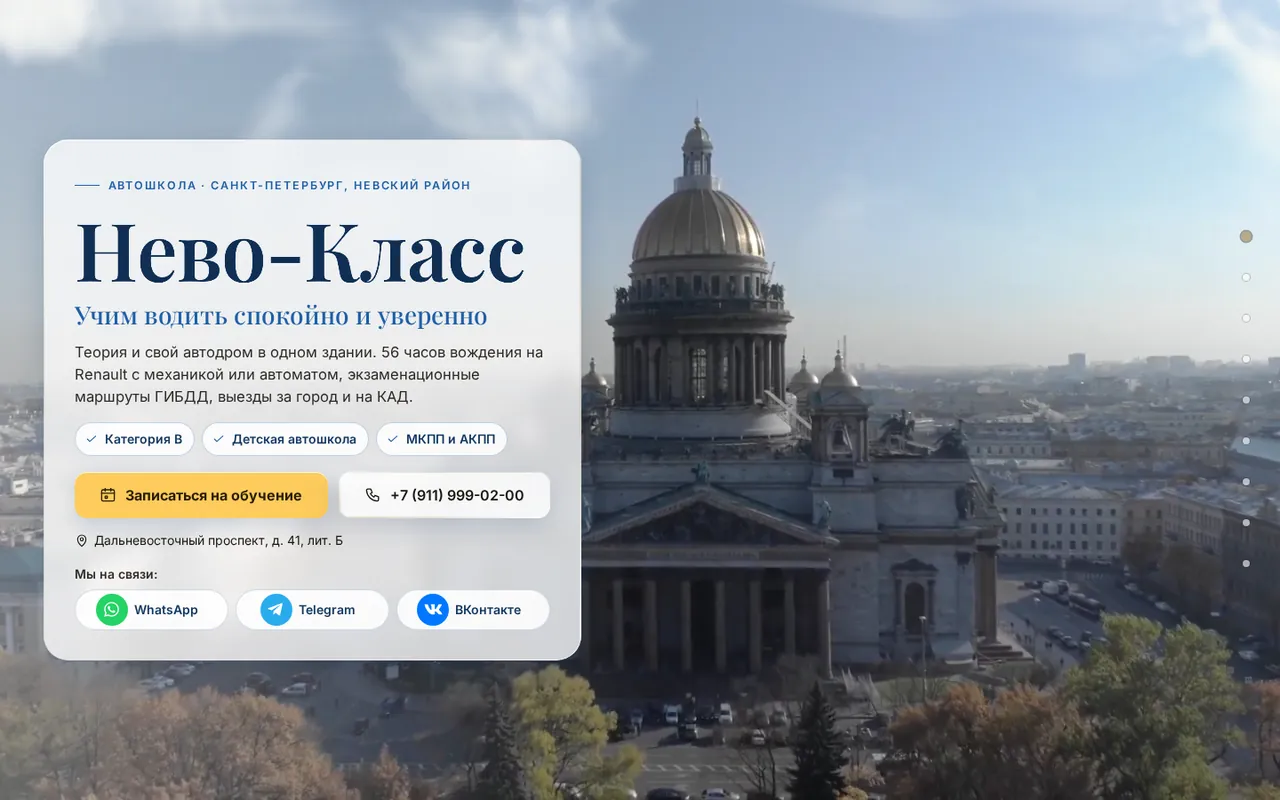
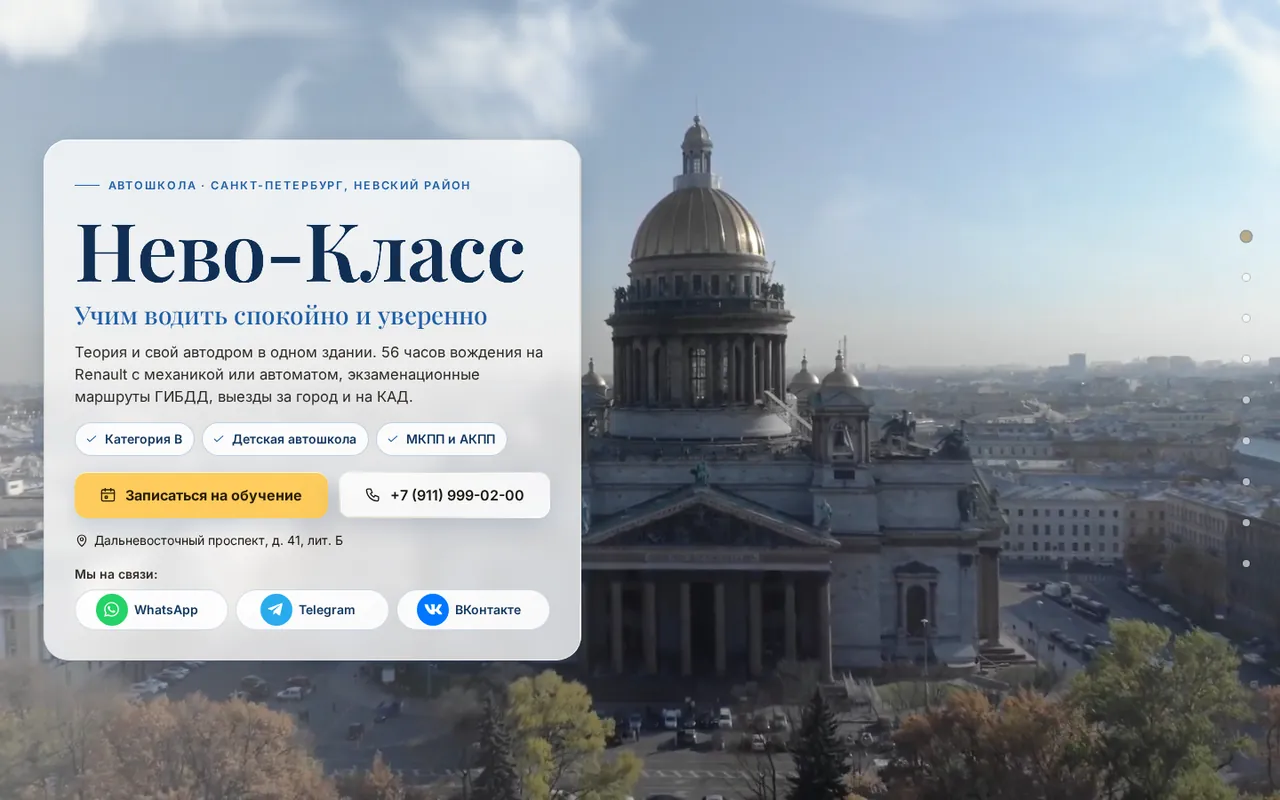
Яркий фон в фирменном синем; версия для слабовидящих без живых фонов и анимаций; снимки витрины обновлены

diff --git a/vitrina/index.html b/vitrina/index.html
@@ -78,9 +78,9 @@ h1{text-wrap:balance;font-size:clamp(30px,3.4vw,48px);line-height:1.08;letter-sp
     </div>
   </div>
   <div class="stage" id="stage" aria-label="Новый сайт на компьютере, ноутбуке и телефоне">
-    <div class="dv mon"><div class="scr"><img src="img/monitor.webp?v=4" alt="" width="1600" height="900"></div><div class="neck"></div><div class="foot"></div></div>
-    <div class="dv lap"><div class="scr"><img src="img/laptop.webp?v=4" alt="" width="1280" height="800"></div><div class="base"></div></div>
-    <div class="dv ph" id="ph"><div class="ss-phone z-phone" data-frame="pro" style="width: 340px; height: 714.953px; padding: 2.38318px; border-radius: 61.1682px; --ps: 0.794392523364486px;"><svg class="ss-phone__bands" width="100%" height="100%" aria-hidden="true"><defs><linearGradient id="ph-band" x1="0.2" y1="0" x2="0.8" y2="1"><stop offset="0" style="stop-color: var(--ss-phone-band-1);"></stop><stop offset="0.22" style="stop-color: var(--ss-phone-band-2);"></stop><stop offset="0.48" style="stop-color: var(--ss-phone-band-3);"></stop><stop offset="0.74" style="stop-color: var(--ss-phone-band-4);"></stop><stop offset="1" style="stop-color: var(--ss-phone-band-5);"></stop></linearGradient><linearGradient id="ph-clay" x1="0" y1="0" x2="0" y2="1"><stop offset="0" style="stop-color: var(--ss-phone-clay-top);"></stop><stop offset="1" style="stop-color: var(--ss-phone-clay-bottom);"></stop></linearGradient></defs><g transform="translate(10.327102803738317 10.327102803738317)" stroke-linejoin="round"><path d="M262.94 0.00L267.09 0.06L270.49 0.24L273.65 0.53L276.65 0.94L279.51 1.47L282.27 2.11L284.93 2.87L287.50 3.74L289.97 4.72L292.36 5.81L294.65 7.02L296.85 8.33L298.96 9.75L300.98 11.27L302.90 12.90L304.72 14.62L306.45 16.45L308.08 18.37L309.60 20.38L311.02 22.49L312.33 24.70L313.53 26.99L314.63 29.37L315.61 31.85L316.48 34.41L317.24 37.07L317.88 39.83L318.41 42.70L318.82 45.69L319.11 48.85L319.29 52.25L319.35 56.40L319.35 637.90L319.29 642.04L319.11 645.45L318.82 648.60L318.41 651.60L317.88 654.47L317.24 657.23L316.48 659.89L315.61 662.45L314.63 664.92L313.53 667.31L312.33 669.60L311.02 671.80L309.60 673.91L308.08 675.93L306.45 677.85L304.72 679.68L302.90 681.40L300.98 683.03L298.96 684.55L296.85 685.97L294.65 687.28L292.36 688.49L289.97 689.58L287.50 690.56L284.93 691.43L282.27 692.19L279.51 692.83L276.65 693.36L273.65 693.77L270.49 694.06L267.09 694.24L262.94 694.30L56.40 694.30L52.25 694.24L48.85 694.06L45.69 693.77L42.70 693.36L39.83 692.83L37.07 692.19L34.41 691.43L31.85 690.56L29.37 689.58L26.99 688.49L24.70 687.28L22.49 685.97L20.38 684.55L18.37 683.03L16.45 681.40L14.62 679.68L12.90 677.85L11.27 675.93L9.75 673.91L8.33 671.80L7.02 669.60L5.81 667.31L4.72 664.92L3.74 662.45L2.87 659.89L2.11 657.23L1.47 654.47L0.94 651.60L0.53 648.60L0.24 645.45L0.06 642.04L0.00 637.90L0.00 56.40L0.06 52.25L0.24 48.85L0.53 45.69L0.94 42.70L1.47 39.83L2.11 37.07L2.87 34.41L3.74 31.85L4.72 29.37L5.81 26.99L7.02 24.70L8.33 22.49L9.75 20.38L11.27 18.37L12.90 16.45L14.62 14.62L16.45 12.90L18.37 11.27L20.38 9.75L22.49 8.33L24.70 7.02L26.99 5.81L29.37 4.72L31.85 3.74L34.41 2.87L37.07 2.11L39.83 1.47L42.70 0.94L45.69 0.53L48.85 0.24L52.25 0.06L56.40 0.00Z" fill="none" stroke-width="20.654205607476634" stroke="url(#ph-band)"></path><path d="M262.94 0.00L267.09 0.06L270.49 0.24L273.65 0.53L276.65 0.94L279.51 1.47L282.27 2.11L284.93 2.87L287.50 3.74L289.97 4.72L292.36 5.81L294.65 7.02L296.85 8.33L298.96 9.75L300.98 11.27L302.90 12.90L304.72 14.62L306.45 16.45L308.08 18.37L309.60 20.38L311.02 22.49L312.33 24.70L313.53 26.99L314.63 29.37L315.61 31.85L316.48 34.41L317.24 37.07L317.88 39.83L318.41 42.70L318.82 45.69L319.11 48.85L319.29 52.25L319.35 56.40L319.35 637.90L319.29 642.04L319.11 645.45L318.82 648.60L318.41 651.60L317.88 654.47L317.24 657.23L316.48 659.89L315.61 662.45L314.63 664.92L313.53 667.31L312.33 669.60L311.02 671.80L309.60 673.91L308.08 675.93L306.45 677.85L304.72 679.68L302.90 681.40L300.98 683.03L298.96 684.55L296.85 685.97L294.65 687.28L292.36 688.49L289.97 689.58L287.50 690.56L284.93 691.43L282.27 692.19L279.51 692.83L276.65 693.36L273.65 693.77L270.49 694.06L267.09 694.24L262.94 694.30L56.40 694.30L52.25 694.24L48.85 694.06L45.69 693.77L42.70 693.36L39.83 692.83L37.07 692.19L34.41 691.43L31.85 690.56L29.37 689.58L26.99 688.49L24.70 687.28L22.49 685.97L20.38 684.55L18.37 683.03L16.45 681.40L14.62 679.68L12.90 677.85L11.27 675.93L9.75 673.91L8.33 671.80L7.02 669.60L5.81 667.31L4.72 664.92L3.74 662.45L2.87 659.89L2.11 657.23L1.47 654.47L0.94 651.60L0.53 648.60L0.24 645.45L0.06 642.04L0.00 637.90L0.00 56.40L0.06 52.25L0.24 48.85L0.53 45.69L0.94 42.70L1.47 39.83L2.11 37.07L2.87 34.41L3.74 31.85L4.72 29.37L5.81 26.99L7.02 24.70L8.33 22.49L9.75 20.38L11.27 18.37L12.90 16.45L14.62 14.62L16.45 12.90L18.37 11.27L20.38 9.75L22.49 8.33L24.70 7.02L26.99 5.81L29.37 4.72L31.85 3.74L34.41 2.87L37.07 2.11L39.83 1.47L42.70 0.94L45.69 0.53L48.85 0.24L52.25 0.06L56.40 0.00Z" fill="none" stroke-width="15.88785046728972" style="stroke: var(--ss-phone-rim);"></path><path d="M262.94 0.00L267.09 0.06L270.49 0.24L273.65 0.53L276.65 0.94L279.51 1.47L282.27 2.11L284.93 2.87L287.50 3.74L289.97 4.72L292.36 5.81L294.65 7.02L296.85 8.33L298.96 9.75L300.98 11.27L302.90 12.90L304.72 14.62L306.45 16.45L308.08 18.37L309.60 20.38L311.02 22.49L312.33 24.70L313.53 26.99L314.63 29.37L315.61 31.85L316.48 34.41L317.24 37.07L317.88 39.83L318.41 42.70L318.82 45.69L319.11 48.85L319.29 52.25L319.35 56.40L319.35 637.90L319.29 642.04L319.11 645.45L318.82 648.60L318.41 651.60L317.88 654.47L317.24 657.23L316.48 659.89L315.61 662.45L314.63 664.92L313.53 667.31L312.33 669.60L311.02 671.80L309.60 673.91L308.08 675.93L306.45 677.85L304.72 679.68L302.90 681.40L300.98 683.03L298.96 684.55L296.85 685.97L294.65 687.28L292.36 688.49L289.97 689.58L287.50 690.56L284.93 691.43L282.27 692.19L279.51 692.83L276.65 693.36L273.65 693.77L270.49 694.06L267.09 694.24L262.94 694.30L56.40 694.30L52.25 694.24L48.85 694.06L45.69 693.77L42.70 693.36L39.83 692.83L37.07 692.19L34.41 691.43L31.85 690.56L29.37 689.58L26.99 688.49L24.70 687.28L22.49 685.97L20.38 684.55L18.37 683.03L16.45 681.40L14.62 679.68L12.90 677.85L11.27 675.93L9.75 673.91L8.33 671.80L7.02 669.60L5.81 667.31L4.72 664.92L3.74 662.45L2.87 659.89L2.11 657.23L1.47 654.47L0.94 651.60L0.53 648.60L0.24 645.45L0.06 642.04L0.00 637.90L0.00 56.40L0.06 52.25L0.24 48.85L0.53 45.69L0.94 42.70L1.47 39.83L2.11 37.07L2.87 34.41L3.74 31.85L4.72 29.37L5.81 26.99L7.02 24.70L8.33 22.49L9.75 20.38L11.27 18.37L12.90 16.45L14.62 14.62L16.45 12.90L18.37 11.27L20.38 9.75L22.49 8.33L24.70 7.02L26.99 5.81L29.37 4.72L31.85 3.74L34.41 2.87L37.07 2.11L39.83 1.47L42.70 0.94L45.69 0.53L48.85 0.24L52.25 0.06L56.40 0.00Z" fill="none" stroke-width="14.69626168224299" style="stroke: var(--ss-phone-glass);"></path></g></svg><div class="ss-phone__glass" style="padding: 7.94393px; border-radius: 58.785px;"><div class="ss-phone__window" style="width: 319.346px; height: 694.299px; clip-path: path(&quot;M 262.94 0 L 267.09 0.06 L 270.49 0.24 L 273.65 0.53 L 276.65 0.94 L 279.51 1.47 L 282.27 2.11 L 284.93 2.87 L 287.5 3.74 L 289.97 4.72 L 292.36 5.81 L 294.65 7.02 L 296.85 8.33 L 298.96 9.75 L 300.98 11.27 L 302.9 12.9 L 304.72 14.62 L 306.45 16.45 L 308.08 18.37 L 309.6 20.38 L 311.02 22.49 L 312.33 24.7 L 313.53 26.99 L 314.63 29.37 L 315.61 31.85 L 316.48 34.41 L 317.24 37.07 L 317.88 39.83 L 318.41 42.7 L 318.82 45.69 L 319.11 48.85 L 319.29 52.25 L 319.35 56.4 L 319.35 637.9 L 319.29 642.04 L 319.11 645.45 L 318.82 648.6 L 318.41 651.6 L 317.88 654.47 L 317.24 657.23 L 316.48 659.89 L 315.61 662.45 L 314.63 664.92 L 313.53 667.31 L 312.33 669.6 L 311.02 671.8 L 309.6 673.91 L 308.08 675.93 L 306.45 677.85 L 304.72 679.68 L 302.9 681.4 L 300.98 683.03 L 298.96 684.55 L 296.85 685.97 L 294.65 687.28 L 292.36 688.49 L 289.97 689.58 L 287.5 690.56 L 284.93 691.43 L 282.27 692.19 L 279.51 692.83 L 276.65 693.36 L 273.65 693.77 L 270.49 694.06 L 267.09 694.24 L 262.94 694.3 L 56.4 694.3 L 52.25 694.24 L 48.85 694.06 L 45.69 693.77 L 42.7 693.36 L 39.83 692.83 L 37.07 692.19 L 34.41 691.43 L 31.85 690.56 L 29.37 689.58 L 26.99 688.49 L 24.7 687.28 L 22.49 685.97 L 20.38 684.55 L 18.37 683.03 L 16.45 681.4 L 14.62 679.68 L 12.9 677.85 L 11.27 675.93 L 9.75 673.91 L 8.33 671.8 L 7.02 669.6 L 5.81 667.31 L 4.72 664.92 L 3.74 662.45 L 2.87 659.89 L 2.11 657.23 L 1.47 654.47 L 0.94 651.6 L 0.53 648.6 L 0.24 645.45 L 0.06 642.04 L 0 637.9 L 0 56.4 L 0.06 52.25 L 0.24 48.85 L 0.53 45.69 L 0.94 42.7 L 1.47 39.83 L 2.11 37.07 L 2.87 34.41 L 3.74 31.85 L 4.72 29.37 L 5.81 26.99 L 7.02 24.7 L 8.33 22.49 L 9.75 20.38 L 11.27 18.37 L 12.9 16.45 L 14.62 14.62 L 16.45 12.9 L 18.37 11.27 L 20.38 9.75 L 22.49 8.33 L 24.7 7.02 L 26.99 5.81 L 29.37 4.72 L 31.85 3.74 L 34.41 2.87 L 37.07 2.11 L 39.83 1.47 L 42.7 0.94 L 45.69 0.53 L 48.85 0.24 L 52.25 0.06 L 56.4 0 Z&quot;);"><div class="ss-phone__screen" style="width: 402px; height: 874px; transform: scale(0.794393); --ss-screen-r: 64px;"><div class="ss-phone__status"><span class="ss-phone__time">10:02</span><span class="ss-phone__glyphs"><svg viewBox="0 0 20.33 13.67" width="20.33" height="13.67" class="ss-phone__glyph ss-phone__signal"><rect x="0" y="7.34" width="3.333" height="6.33" rx="1.667" fill="currentColor"></rect><rect x="5.667" y="5" width="3.333" height="8.67" rx="1.667" fill="currentColor"></rect><rect x="11.334" y="2.67" width="3.333" height="11" rx="1.667" fill="currentColor"></rect><rect x="17.000999999999998" y="0" width="3.333" height="13.67" rx="1.667" fill="currentColor"></rect></svg><svg viewBox="0 0 19.33 14.33" width="19.33" height="14.33" class="ss-phone__glyph ss-phone__wifi"><path fill-rule="evenodd" fill="currentColor" d="M0.415933 5.54283C0.902185 6.04412 1.66017 5.95818 2.27513 5.41393C4.30595 3.58064 6.83731 2.63535 9.66901 2.63535C12.5007 2.63535 15.0464 3.60928 17.0629 5.41393C17.6636 5.97251 18.4215 6.0298 18.9221 5.54283C19.4226 5.02722 19.4942 4.2538 18.9793 3.70954C16.8341 1.51819 13.3302 0 9.66901 0C6.00783 0 2.48965 1.53251 0.358727 3.72387C-0.156127 4.2538 -0.0989213 5.02722 0.415933 5.55715L0.415933 5.54283ZM3.94841 9.13779C4.50617 9.68205 5.22124 9.62476 5.85051 9.10915C6.88022 8.29276 8.25316 7.73418 9.66901 7.7485C11.0706 7.7485 12.4435 8.29276 13.4875 9.12347C14.1168 9.63908 14.8605 9.66773 15.4039 9.12347C15.9331 8.57921 16.0189 7.7485 15.4611 7.23289C14.0739 5.98683 11.9859 5.11315 9.68332 5.11315C7.38077 5.11315 5.27845 5.98683 3.9055 7.23289C3.41925 7.69121 3.31914 8.47896 3.96271 9.13779L3.94841 9.13779ZM8.72511 13.8929C9.34008 14.4801 9.98365 14.4801 10.5986 13.8929L11.757 12.7757C12.372 12.1742 12.5007 11.4151 11.7999 10.8995C11.2136 10.4841 10.4699 10.212 9.66901 10.212C8.86813 10.212 8.11015 10.4841 7.53809 10.9138C6.83731 11.4151 6.98033 12.1885 7.59529 12.7757L8.73942 13.8929L8.72511 13.8929Z"></path></svg><svg viewBox="0 0 29.33 13.67" width="29.33" height="13.67" class="ss-phone__glyph ss-phone__battery"><path fill="currentColor" d="M0 6.4C0 4.15979 0 3.03969 0.435974 2.18404C0.819467 1.43139 1.43139 0.819467 2.18404 0.435974C3.03969 0 4.15979 0 6.4 0L19.933 0C22.1732 0 23.2933 0 24.149 0.435974C24.9016 0.819467 25.5135 1.43139 25.897 2.18404C26.333 3.03969 26.333 4.15979 26.333 6.4L26.333 7.26666C26.333 9.50687 26.333 10.627 25.897 11.4826C25.5135 12.2353 24.9016 12.8472 24.149 13.2307C23.2933 13.6667 22.1732 13.6667 19.933 13.6667L6.4 13.6667C4.15979 13.6667 3.03969 13.6667 2.18404 13.2307C1.43139 12.8472 0.819467 12.2353 0.435974 11.4826C0 10.627 0 9.50687 0 7.26666L0 6.4Z"></path><path fill-rule="evenodd" fill="currentColor" transform="translate(27.33 4.33)" d="M0 0L0 5C0.601505 4.8625 2 3.75 2 2.5C2 1.25 0.601505 0.1375 0 0Z"></path></svg></span></div><span class="ss-phone__island"></span><div class="ss-phone__content" data-status="true"><img class="ph-shot" src="img/phone.webp?v=4" alt="Новый сайт «Нево-Класса» на телефоне" width="393" height="790"></div><span class="ss-phone__home"></span></div></div></div></div></div>
+    <div class="dv mon"><div class="scr"><img src="img/monitor.webp?v=5" alt="" width="1600" height="900"></div><div class="neck"></div><div class="foot"></div></div>
+    <div class="dv lap"><div class="scr"><img src="img/laptop.webp?v=5" alt="" width="1280" height="800"></div><div class="base"></div></div>
+    <div class="dv ph" id="ph"><div class="ss-phone z-phone" data-frame="pro" style="width: 340px; height: 714.953px; padding: 2.38318px; border-radius: 61.1682px; --ps: 0.794392523364486px;"><svg class="ss-phone__bands" width="100%" height="100%" aria-hidden="true"><defs><linearGradient id="ph-band" x1="0.2" y1="0" x2="0.8" y2="1"><stop offset="0" style="stop-color: var(--ss-phone-band-1);"></stop><stop offset="0.22" style="stop-color: var(--ss-phone-band-2);"></stop><stop offset="0.48" style="stop-color: var(--ss-phone-band-3);"></stop><stop offset="0.74" style="stop-color: var(--ss-phone-band-4);"></stop><stop offset="1" style="stop-color: var(--ss-phone-band-5);"></stop></linearGradient><linearGradient id="ph-clay" x1="0" y1="0" x2="0" y2="1"><stop offset="0" style="stop-color: var(--ss-phone-clay-top);"></stop><stop offset="1" style="stop-color: var(--ss-phone-clay-bottom);"></stop></linearGradient></defs><g transform="translate(10.327102803738317 10.327102803738317)" stroke-linejoin="round"><path d="M262.94 0.00L267.09 0.06L270.49 0.24L273.65 0.53L276.65 0.94L279.51 1.47L282.27 2.11L284.93 2.87L287.50 3.74L289.97 4.72L292.36 5.81L294.65 7.02L296.85 8.33L298.96 9.75L300.98 11.27L302.90 12.90L304.72 14.62L306.45 16.45L308.08 18.37L309.60 20.38L311.02 22.49L312.33 24.70L313.53 26.99L314.63 29.37L315.61 31.85L316.48 34.41L317.24 37.07L317.88 39.83L318.41 42.70L318.82 45.69L319.11 48.85L319.29 52.25L319.35 56.40L319.35 637.90L319.29 642.04L319.11 645.45L318.82 648.60L318.41 651.60L317.88 654.47L317.24 657.23L316.48 659.89L315.61 662.45L314.63 664.92L313.53 667.31L312.33 669.60L311.02 671.80L309.60 673.91L308.08 675.93L306.45 677.85L304.72 679.68L302.90 681.40L300.98 683.03L298.96 684.55L296.85 685.97L294.65 687.28L292.36 688.49L289.97 689.58L287.50 690.56L284.93 691.43L282.27 692.19L279.51 692.83L276.65 693.36L273.65 693.77L270.49 694.06L267.09 694.24L262.94 694.30L56.40 694.30L52.25 694.24L48.85 694.06L45.69 693.77L42.70 693.36L39.83 692.83L37.07 692.19L34.41 691.43L31.85 690.56L29.37 689.58L26.99 688.49L24.70 687.28L22.49 685.97L20.38 684.55L18.37 683.03L16.45 681.40L14.62 679.68L12.90 677.85L11.27 675.93L9.75 673.91L8.33 671.80L7.02 669.60L5.81 667.31L4.72 664.92L3.74 662.45L2.87 659.89L2.11 657.23L1.47 654.47L0.94 651.60L0.53 648.60L0.24 645.45L0.06 642.04L0.00 637.90L0.00 56.40L0.06 52.25L0.24 48.85L0.53 45.69L0.94 42.70L1.47 39.83L2.11 37.07L2.87 34.41L3.74 31.85L4.72 29.37L5.81 26.99L7.02 24.70L8.33 22.49L9.75 20.38L11.27 18.37L12.90 16.45L14.62 14.62L16.45 12.90L18.37 11.27L20.38 9.75L22.49 8.33L24.70 7.02L26.99 5.81L29.37 4.72L31.85 3.74L34.41 2.87L37.07 2.11L39.83 1.47L42.70 0.94L45.69 0.53L48.85 0.24L52.25 0.06L56.40 0.00Z" fill="none" stroke-width="20.654205607476634" stroke="url(#ph-band)"></path><path d="M262.94 0.00L267.09 0.06L270.49 0.24L273.65 0.53L276.65 0.94L279.51 1.47L282.27 2.11L284.93 2.87L287.50 3.74L289.97 4.72L292.36 5.81L294.65 7.02L296.85 8.33L298.96 9.75L300.98 11.27L302.90 12.90L304.72 14.62L306.45 16.45L308.08 18.37L309.60 20.38L311.02 22.49L312.33 24.70L313.53 26.99L314.63 29.37L315.61 31.85L316.48 34.41L317.24 37.07L317.88 39.83L318.41 42.70L318.82 45.69L319.11 48.85L319.29 52.25L319.35 56.40L319.35 637.90L319.29 642.04L319.11 645.45L318.82 648.60L318.41 651.60L317.88 654.47L317.24 657.23L316.48 659.89L315.61 662.45L314.63 664.92L313.53 667.31L312.33 669.60L311.02 671.80L309.60 673.91L308.08 675.93L306.45 677.85L304.72 679.68L302.90 681.40L300.98 683.03L298.96 684.55L296.85 685.97L294.65 687.28L292.36 688.49L289.97 689.58L287.50 690.56L284.93 691.43L282.27 692.19L279.51 692.83L276.65 693.36L273.65 693.77L270.49 694.06L267.09 694.24L262.94 694.30L56.40 694.30L52.25 694.24L48.85 694.06L45.69 693.77L42.70 693.36L39.83 692.83L37.07 692.19L34.41 691.43L31.85 690.56L29.37 689.58L26.99 688.49L24.70 687.28L22.49 685.97L20.38 684.55L18.37 683.03L16.45 681.40L14.62 679.68L12.90 677.85L11.27 675.93L9.75 673.91L8.33 671.80L7.02 669.60L5.81 667.31L4.72 664.92L3.74 662.45L2.87 659.89L2.11 657.23L1.47 654.47L0.94 651.60L0.53 648.60L0.24 645.45L0.06 642.04L0.00 637.90L0.00 56.40L0.06 52.25L0.24 48.85L0.53 45.69L0.94 42.70L1.47 39.83L2.11 37.07L2.87 34.41L3.74 31.85L4.72 29.37L5.81 26.99L7.02 24.70L8.33 22.49L9.75 20.38L11.27 18.37L12.90 16.45L14.62 14.62L16.45 12.90L18.37 11.27L20.38 9.75L22.49 8.33L24.70 7.02L26.99 5.81L29.37 4.72L31.85 3.74L34.41 2.87L37.07 2.11L39.83 1.47L42.70 0.94L45.69 0.53L48.85 0.24L52.25 0.06L56.40 0.00Z" fill="none" stroke-width="15.88785046728972" style="stroke: var(--ss-phone-rim);"></path><path d="M262.94 0.00L267.09 0.06L270.49 0.24L273.65 0.53L276.65 0.94L279.51 1.47L282.27 2.11L284.93 2.87L287.50 3.74L289.97 4.72L292.36 5.81L294.65 7.02L296.85 8.33L298.96 9.75L300.98 11.27L302.90 12.90L304.72 14.62L306.45 16.45L308.08 18.37L309.60 20.38L311.02 22.49L312.33 24.70L313.53 26.99L314.63 29.37L315.61 31.85L316.48 34.41L317.24 37.07L317.88 39.83L318.41 42.70L318.82 45.69L319.11 48.85L319.29 52.25L319.35 56.40L319.35 637.90L319.29 642.04L319.11 645.45L318.82 648.60L318.41 651.60L317.88 654.47L317.24 657.23L316.48 659.89L315.61 662.45L314.63 664.92L313.53 667.31L312.33 669.60L311.02 671.80L309.60 673.91L308.08 675.93L306.45 677.85L304.72 679.68L302.90 681.40L300.98 683.03L298.96 684.55L296.85 685.97L294.65 687.28L292.36 688.49L289.97 689.58L287.50 690.56L284.93 691.43L282.27 692.19L279.51 692.83L276.65 693.36L273.65 693.77L270.49 694.06L267.09 694.24L262.94 694.30L56.40 694.30L52.25 694.24L48.85 694.06L45.69 693.77L42.70 693.36L39.83 692.83L37.07 692.19L34.41 691.43L31.85 690.56L29.37 689.58L26.99 688.49L24.70 687.28L22.49 685.97L20.38 684.55L18.37 683.03L16.45 681.40L14.62 679.68L12.90 677.85L11.27 675.93L9.75 673.91L8.33 671.80L7.02 669.60L5.81 667.31L4.72 664.92L3.74 662.45L2.87 659.89L2.11 657.23L1.47 654.47L0.94 651.60L0.53 648.60L0.24 645.45L0.06 642.04L0.00 637.90L0.00 56.40L0.06 52.25L0.24 48.85L0.53 45.69L0.94 42.70L1.47 39.83L2.11 37.07L2.87 34.41L3.74 31.85L4.72 29.37L5.81 26.99L7.02 24.70L8.33 22.49L9.75 20.38L11.27 18.37L12.90 16.45L14.62 14.62L16.45 12.90L18.37 11.27L20.38 9.75L22.49 8.33L24.70 7.02L26.99 5.81L29.37 4.72L31.85 3.74L34.41 2.87L37.07 2.11L39.83 1.47L42.70 0.94L45.69 0.53L48.85 0.24L52.25 0.06L56.40 0.00Z" fill="none" stroke-width="14.69626168224299" style="stroke: var(--ss-phone-glass);"></path></g></svg><div class="ss-phone__glass" style="padding: 7.94393px; border-radius: 58.785px;"><div class="ss-phone__window" style="width: 319.346px; height: 694.299px; clip-path: path(&quot;M 262.94 0 L 267.09 0.06 L 270.49 0.24 L 273.65 0.53 L 276.65 0.94 L 279.51 1.47 L 282.27 2.11 L 284.93 2.87 L 287.5 3.74 L 289.97 4.72 L 292.36 5.81 L 294.65 7.02 L 296.85 8.33 L 298.96 9.75 L 300.98 11.27 L 302.9 12.9 L 304.72 14.62 L 306.45 16.45 L 308.08 18.37 L 309.6 20.38 L 311.02 22.49 L 312.33 24.7 L 313.53 26.99 L 314.63 29.37 L 315.61 31.85 L 316.48 34.41 L 317.24 37.07 L 317.88 39.83 L 318.41 42.7 L 318.82 45.69 L 319.11 48.85 L 319.29 52.25 L 319.35 56.4 L 319.35 637.9 L 319.29 642.04 L 319.11 645.45 L 318.82 648.6 L 318.41 651.6 L 317.88 654.47 L 317.24 657.23 L 316.48 659.89 L 315.61 662.45 L 314.63 664.92 L 313.53 667.31 L 312.33 669.6 L 311.02 671.8 L 309.6 673.91 L 308.08 675.93 L 306.45 677.85 L 304.72 679.68 L 302.9 681.4 L 300.98 683.03 L 298.96 684.55 L 296.85 685.97 L 294.65 687.28 L 292.36 688.49 L 289.97 689.58 L 287.5 690.56 L 284.93 691.43 L 282.27 692.19 L 279.51 692.83 L 276.65 693.36 L 273.65 693.77 L 270.49 694.06 L 267.09 694.24 L 262.94 694.3 L 56.4 694.3 L 52.25 694.24 L 48.85 694.06 L 45.69 693.77 L 42.7 693.36 L 39.83 692.83 L 37.07 692.19 L 34.41 691.43 L 31.85 690.56 L 29.37 689.58 L 26.99 688.49 L 24.7 687.28 L 22.49 685.97 L 20.38 684.55 L 18.37 683.03 L 16.45 681.4 L 14.62 679.68 L 12.9 677.85 L 11.27 675.93 L 9.75 673.91 L 8.33 671.8 L 7.02 669.6 L 5.81 667.31 L 4.72 664.92 L 3.74 662.45 L 2.87 659.89 L 2.11 657.23 L 1.47 654.47 L 0.94 651.6 L 0.53 648.6 L 0.24 645.45 L 0.06 642.04 L 0 637.9 L 0 56.4 L 0.06 52.25 L 0.24 48.85 L 0.53 45.69 L 0.94 42.7 L 1.47 39.83 L 2.11 37.07 L 2.87 34.41 L 3.74 31.85 L 4.72 29.37 L 5.81 26.99 L 7.02 24.7 L 8.33 22.49 L 9.75 20.38 L 11.27 18.37 L 12.9 16.45 L 14.62 14.62 L 16.45 12.9 L 18.37 11.27 L 20.38 9.75 L 22.49 8.33 L 24.7 7.02 L 26.99 5.81 L 29.37 4.72 L 31.85 3.74 L 34.41 2.87 L 37.07 2.11 L 39.83 1.47 L 42.7 0.94 L 45.69 0.53 L 48.85 0.24 L 52.25 0.06 L 56.4 0 Z&quot;);"><div class="ss-phone__screen" style="width: 402px; height: 874px; transform: scale(0.794393); --ss-screen-r: 64px;"><div class="ss-phone__status"><span class="ss-phone__time">10:02</span><span class="ss-phone__glyphs"><svg viewBox="0 0 20.33 13.67" width="20.33" height="13.67" class="ss-phone__glyph ss-phone__signal"><rect x="0" y="7.34" width="3.333" height="6.33" rx="1.667" fill="currentColor"></rect><rect x="5.667" y="5" width="3.333" height="8.67" rx="1.667" fill="currentColor"></rect><rect x="11.334" y="2.67" width="3.333" height="11" rx="1.667" fill="currentColor"></rect><rect x="17.000999999999998" y="0" width="3.333" height="13.67" rx="1.667" fill="currentColor"></rect></svg><svg viewBox="0 0 19.33 14.33" width="19.33" height="14.33" class="ss-phone__glyph ss-phone__wifi"><path fill-rule="evenodd" fill="currentColor" d="M0.415933 5.54283C0.902185 6.04412 1.66017 5.95818 2.27513 5.41393C4.30595 3.58064 6.83731 2.63535 9.66901 2.63535C12.5007 2.63535 15.0464 3.60928 17.0629 5.41393C17.6636 5.97251 18.4215 6.0298 18.9221 5.54283C19.4226 5.02722 19.4942 4.2538 18.9793 3.70954C16.8341 1.51819 13.3302 0 9.66901 0C6.00783 0 2.48965 1.53251 0.358727 3.72387C-0.156127 4.2538 -0.0989213 5.02722 0.415933 5.55715L0.415933 5.54283ZM3.94841 9.13779C4.50617 9.68205 5.22124 9.62476 5.85051 9.10915C6.88022 8.29276 8.25316 7.73418 9.66901 7.7485C11.0706 7.7485 12.4435 8.29276 13.4875 9.12347C14.1168 9.63908 14.8605 9.66773 15.4039 9.12347C15.9331 8.57921 16.0189 7.7485 15.4611 7.23289C14.0739 5.98683 11.9859 5.11315 9.68332 5.11315C7.38077 5.11315 5.27845 5.98683 3.9055 7.23289C3.41925 7.69121 3.31914 8.47896 3.96271 9.13779L3.94841 9.13779ZM8.72511 13.8929C9.34008 14.4801 9.98365 14.4801 10.5986 13.8929L11.757 12.7757C12.372 12.1742 12.5007 11.4151 11.7999 10.8995C11.2136 10.4841 10.4699 10.212 9.66901 10.212C8.86813 10.212 8.11015 10.4841 7.53809 10.9138C6.83731 11.4151 6.98033 12.1885 7.59529 12.7757L8.73942 13.8929L8.72511 13.8929Z"></path></svg><svg viewBox="0 0 29.33 13.67" width="29.33" height="13.67" class="ss-phone__glyph ss-phone__battery"><path fill="currentColor" d="M0 6.4C0 4.15979 0 3.03969 0.435974 2.18404C0.819467 1.43139 1.43139 0.819467 2.18404 0.435974C3.03969 0 4.15979 0 6.4 0L19.933 0C22.1732 0 23.2933 0 24.149 0.435974C24.9016 0.819467 25.5135 1.43139 25.897 2.18404C26.333 3.03969 26.333 4.15979 26.333 6.4L26.333 7.26666C26.333 9.50687 26.333 10.627 25.897 11.4826C25.5135 12.2353 24.9016 12.8472 24.149 13.2307C23.2933 13.6667 22.1732 13.6667 19.933 13.6667L6.4 13.6667C4.15979 13.6667 3.03969 13.6667 2.18404 13.2307C1.43139 12.8472 0.819467 12.2353 0.435974 11.4826C0 10.627 0 9.50687 0 7.26666L0 6.4Z"></path><path fill-rule="evenodd" fill="currentColor" transform="translate(27.33 4.33)" d="M0 0L0 5C0.601505 4.8625 2 3.75 2 2.5C2 1.25 0.601505 0.1375 0 0Z"></path></svg></span></div><span class="ss-phone__island"></span><div class="ss-phone__content" data-status="true"><img class="ph-shot" src="img/phone.webp?v=5" alt="Новый сайт «Нево-Класса» на телефоне" width="393" height="790"></div><span class="ss-phone__home"></span></div></div></div></div></div>
   </div>
 </main>
 <p class="note">Сайт сделан веб-агентством «Всети» по материалам открытого сайта автошколы.</p>

diff --git a/index.html b/index.html
@@ -603,7 +603,7 @@ html[data-hc="1"] :focus-visible{outline:3px solid #ffe14d;outline-offset:2px}
 </style>
 <link rel="stylesheet" href="css/etalon.css?v=20261112f">
 <link rel="stylesheet" href="css/title-b.css?v=20261112f">
-<link rel="stylesheet" href="css/nevo.css?v=20261112f">
+<link rel="stylesheet" href="css/nevo.css?v=20261112g">
 <script type="application/ld+json">{"@context": "https://schema.org", "@type": "DrivingSchool", "name": "Автошкола «Нево-Класс»", "legalName": "ООО «Учебный центр «Нево-Класс»", "telephone": "+7 911 999-02-00", "email": "nevo-class@mail.ru", "address": {"@type": "PostalAddress", "streetAddress": "Дальневосточный проспект, д. 41, лит. Б, пом. 28 (вход с ул. Крыленко, 10)", "addressLocality": "Санкт-Петербург", "addressRegion": "Санкт-Петербург", "addressCountry": "RU"}, "geo": {"@type": "GeoCoordinates", "latitude": 59.8944504, "longitude": 30.4585142}, "areaServed": "Невский район, Санкт-Петербург", "openingHoursSpecification": [{"@type": "OpeningHoursSpecification", "dayOfWeek": "Tuesday", "opens": "12:00", "closes": "20:00"}, {"@type": "OpeningHoursSpecification", "dayOfWeek": "Wednesday", "opens": "10:00", "closes": "20:00"}, {"@type": "OpeningHoursSpecification", "dayOfWeek": ["Thursday", "Friday"], "opens": "10:00", "closes": "18:00"}, {"@type": "OpeningHoursSpecification", "dayOfWeek": "Saturday", "opens": "10:00", "closes": "14:00"}], "sameAs": ["https://vk.com/avtoshkola_spb", "https://t.me/Nevo_Class"], "hasOfferCatalog": {"@type": "OfferCatalog", "name": "Обучение вождению", "itemListElement": [{"@type": "Offer", "itemOffered": {"@type": "Course", "name": "Категория B: теория (бесплатно) и практика"}, "price": "5500", "priceCurrency": "RUB", "description": "2-часовое занятие по вождению"}, {"@type": "Offer", "itemOffered": {"@type": "Course", "name": "Детская автошкола"}, "price": "3000", "priceCurrency": "RUB", "description": "занятие 60 минут"}, {"@type": "Offer", "itemOffered": {"@type": "Course", "name": "Индивидуальное обучение"}, "price": "5000", "priceCurrency": "RUB", "description": "120 минут на автомобиле ученика; на автомобиле автошколы — 6000"}, {"@type": "Offer", "itemOffered": {"@type": "Course", "name": "Уверенный водитель"}, "price": "12000", "priceCurrency": "RUB", "description": "курс 10 занятий по 60 минут; одно занятие — 1500"}, {"@type": "Offer", "itemOffered": {"@type": "Course", "name": "Адаптация к автомобилю"}, "price": "5000", "priceCurrency": "RUB", "description": "120 минут на автомобиле ученика; на автомобиле автошколы — 6000"}, {"@type": "Offer", "itemOffered": {"@type": "Course", "name": "Контраварийная подготовка (партнёр — Центр высшего водительского мастерства)"}}]}}</script>
 </head>
 <body data-sec="0">

diff --git a/css/nevo.css b/css/nevo.css
@@ -730,3 +730,11 @@ html[data-theme="dark"] .soc{background:rgba(16,28,46,.82);border-color:rgba(255
   .soc{justify-content:center;padding:4px 14px 4px 4px;min-width:0}
   .soc .soc-n{white-space:nowrap}
 }
+/* яркий фон: фирменный синий насыщеннее и контрастнее (Сергей 12.11) */
+.nk-sec .sec-bg{background:radial-gradient(circle at 90% 8%,rgba(56,189,248,.75),rgba(56,189,248,0) 38%),radial-gradient(circle at 6% 94%,rgba(255,201,77,.6),rgba(255,201,77,0) 40%),linear-gradient(150deg,#5a92f2 0%,#2a64cc 48%,#163c84 100%)}
+html[data-theme="dark"] .nk-sec .sec-bg{background:radial-gradient(circle at 90% 8%,rgba(56,189,248,.3),rgba(56,189,248,0) 40%),linear-gradient(150deg,#163a74 0%,#0f2752 55%,#0a1834 100%)}
+/* версия для слабовидящих: без живых фонов и анимаций */
+html[data-hc="1"] .nk-sec .sec-bg>*{display:none!important}
+html[data-hc="1"] *{animation:none!important;transition:none!important}
+html:not([data-theme="dark"]) .nk-sec .cbox,html:not([data-theme="dark"]) .nk-sec .sec-head,html:not([data-theme="dark"]) .nk-sec .glass{background:rgba(255,255,255,.94)!important}
+html[data-theme="dark"] .nk-sec .cbox,html[data-theme="dark"] .nk-sec .sec-head,html[data-theme="dark"] .nk-sec .glass{background:rgba(15,27,43,.93)!important}
